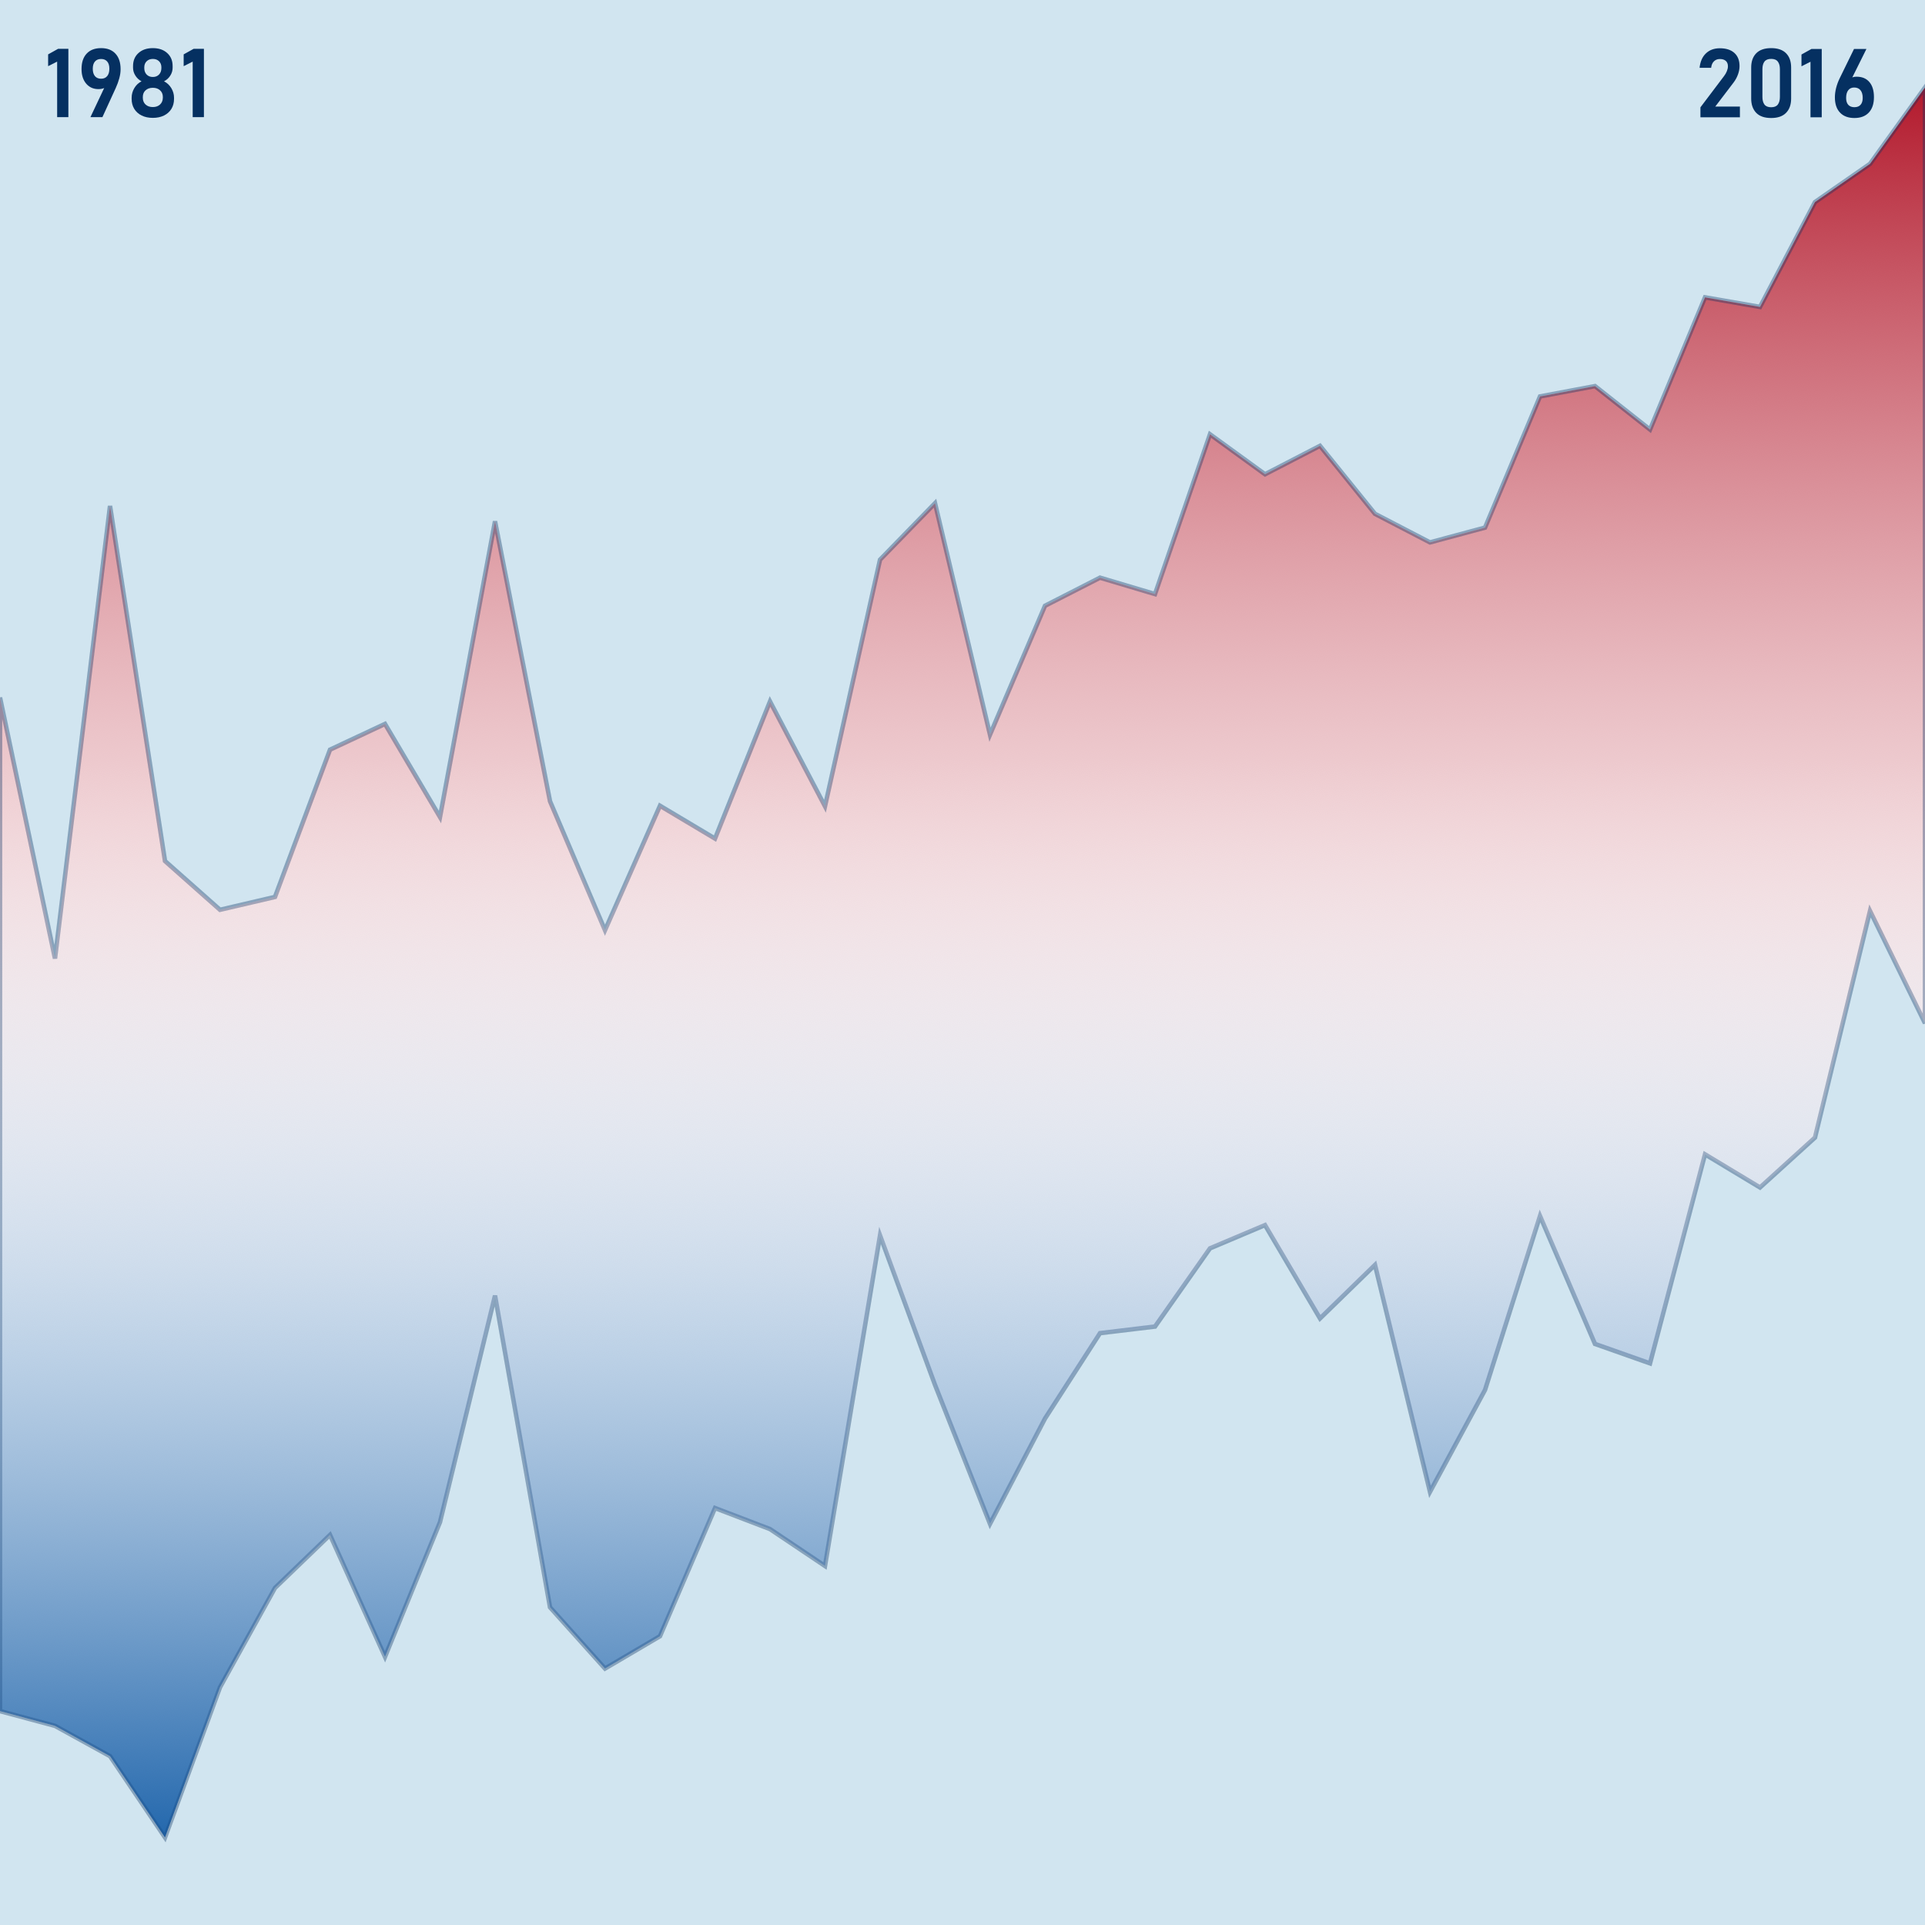
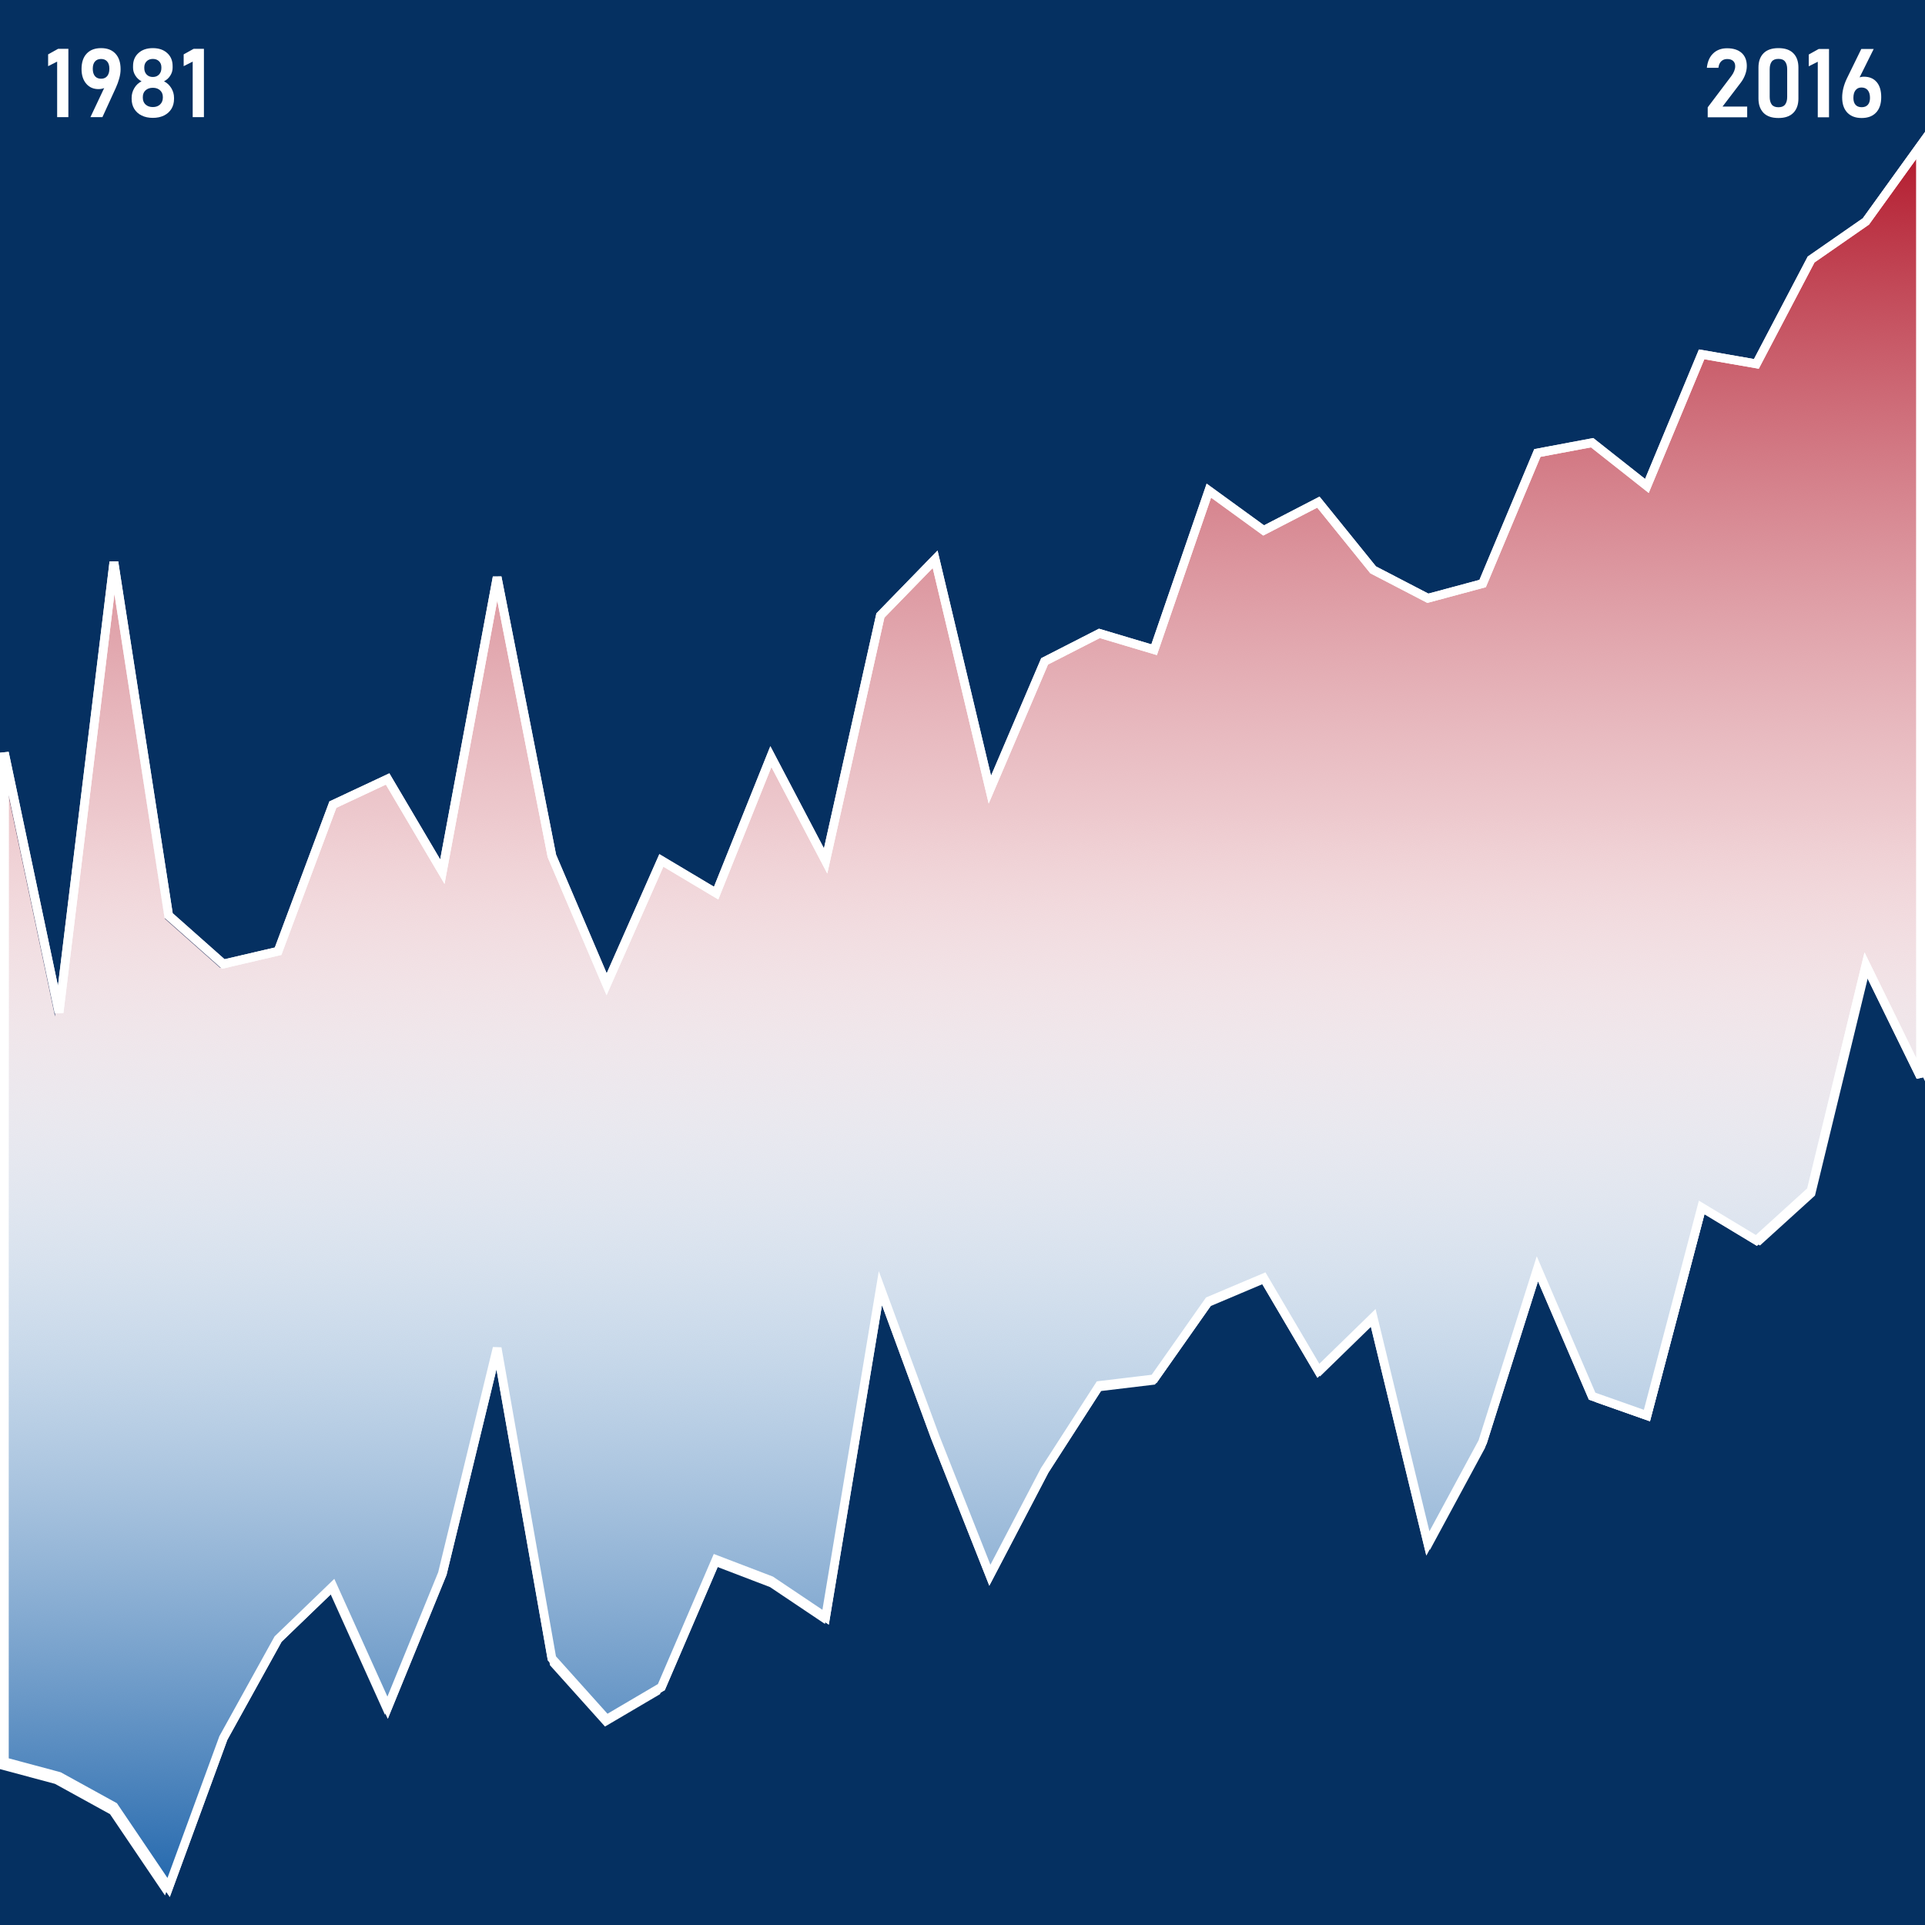
add readme

diff --git a/README.md b/README.md
@@ -35,6 +35,13 @@
 </p>
 
 
+## Sea Surface Temperatures
+
+<p align="center">
+  <img src="ESA Little Pictures/esa-little-pictures.png" width="80%">
+</p>
+
+
 ## Heatmap Blanket Knitting Pattern
 
 <p align="center">

diff --git a/ESA Little Pictures/README.md b/ESA Little Pictures/README.md
@@ -1,0 +1,11 @@
+# Sea Surface Temperature
+
+Title: Sea surface temperature
+
+Date: 1981 - 2016
+
+Description:
+
+## Data
+
+## Methods
